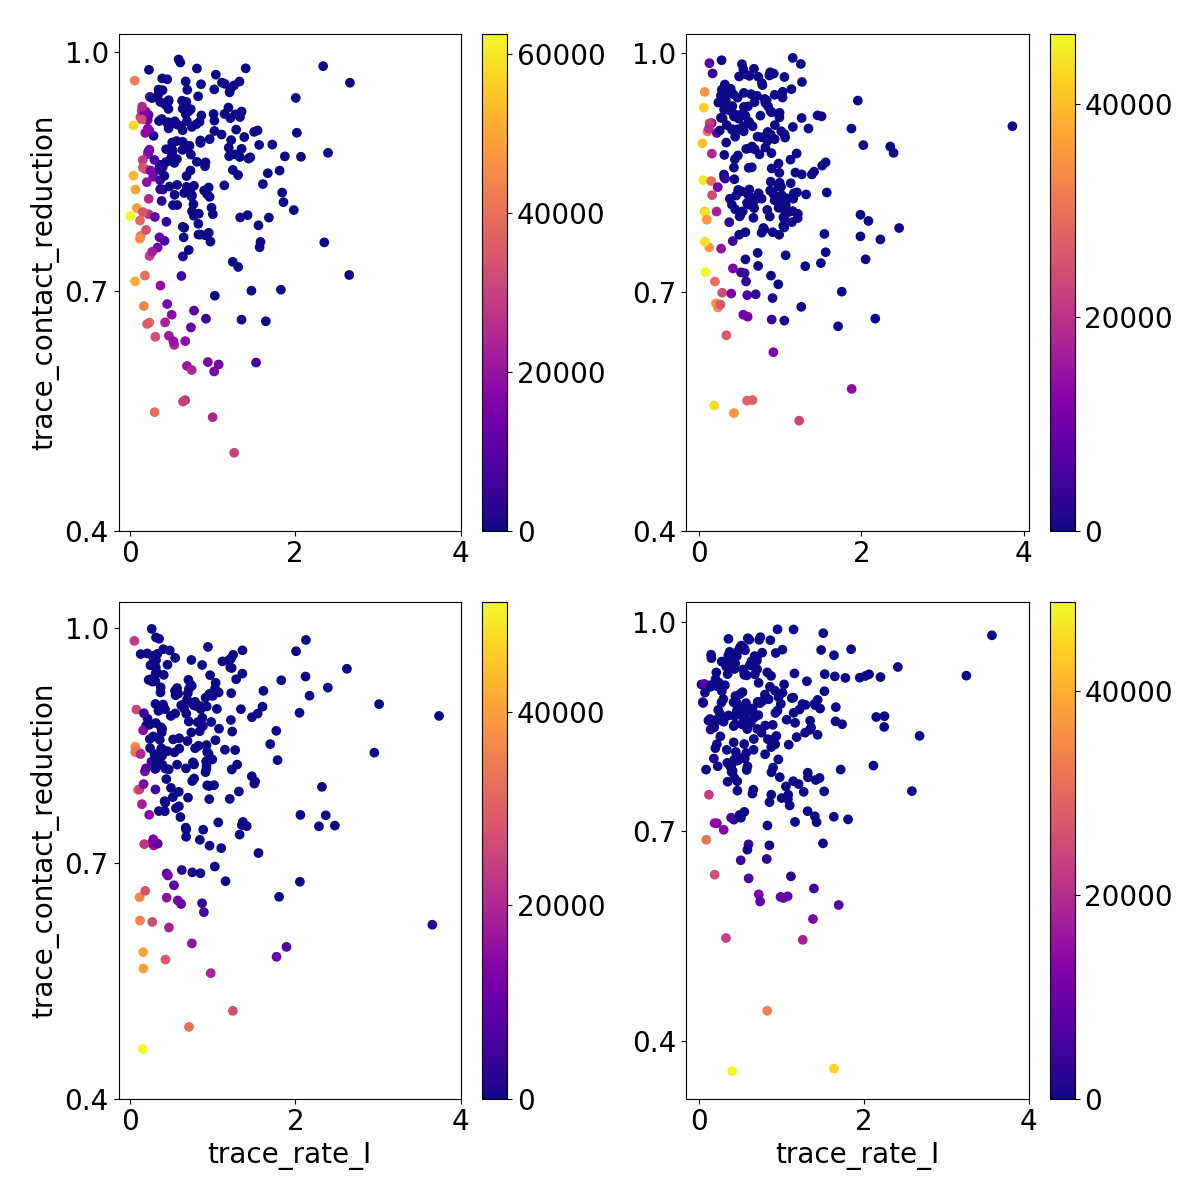
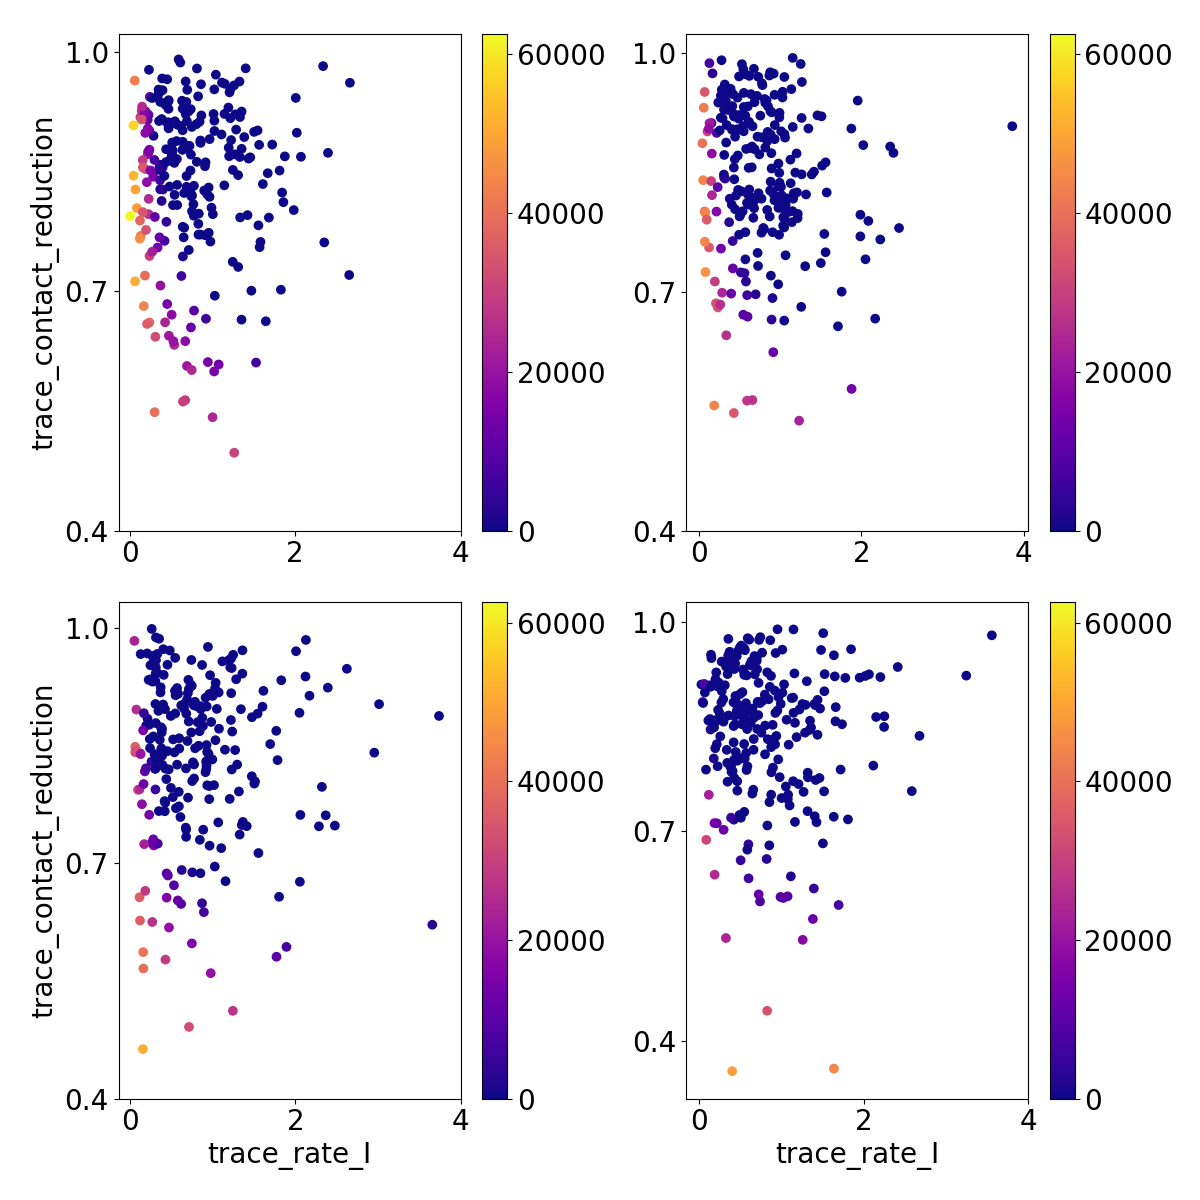
use np.min and np.max to set limits of colorbar

diff --git a/EasyVVUQ/heatmap_CT.py b/EasyVVUQ/heatmap_CT.py
@@ -118,7 +118,7 @@ for i in range(n_runs):
 f = plt.figure('heatmap_IC_prev',figsize=[12,12])
 ax_0 = f.add_subplot(221, ylabel='trace_contact_reduction')
 im_0 = ax_0.scatter(x=trace_rate_I_q[:,0], y=trace_contact_reduction_q[:,0], c=IC_prev_avg_max_q[:,0], cmap='plasma', \
-    vmin=min(IC_prev_avg_max_q), vmax=max(IC_prev_avg_max_q))
+    vmin=np.min(IC_prev_avg_max_q), vmax=np.max(IC_prev_avg_max_q))
 cbar_0 = f.colorbar(im_0, ax=ax_0)
 cbar_0.set_ticks([100, 400, 700, 1000])
 cbar_0.set_ticklabels(['100', '400', '700', '1000'])
@@ -127,7 +127,7 @@ ax_0.set_yticks([0.4, 0.7, 1])
 
 ax_1 = f.add_subplot(222)
 im_1 = ax_1.scatter(x=trace_rate_I_q[:,1], y=trace_contact_reduction_q[:,1], c=IC_prev_avg_max_q[:,1], cmap='plasma', \
-    vmin=min(IC_prev_avg_max_q), vmax=max(IC_prev_avg_max_q))
+    vmin=np.min(IC_prev_avg_max_q), vmax=np.max(IC_prev_avg_max_q))
 cbar_1 = f.colorbar(im_1, ax=ax_1)
 cbar_1.set_ticks([100, 400, 700, 1000])
 cbar_1.set_ticklabels(['100', '400', '700', '1000'])
@@ -136,7 +136,7 @@ ax_1.set_yticks([0.4, 0.7, 1])
 
 ax_2 = f.add_subplot(223, xlabel='trace_rate_I', ylabel='trace_contact_reduction')
 im_2 = ax_2.scatter(x=trace_rate_I_q[:,2], y=trace_contact_reduction_q[:,2], c=IC_prev_avg_max_q[:,2], cmap='plasma', \
-    vmin=min(IC_prev_avg_max_q), vmax=max(IC_prev_avg_max_q))
+    vmin=np.min(IC_prev_avg_max_q), vmax=np.max(IC_prev_avg_max_q))
 cbar_2 = f.colorbar(im_2, ax=ax_2)
 cbar_2.set_ticks([100, 400, 700, 1000])
 cbar_2.set_ticklabels(['100', '400', '700', '1000'])
@@ -145,7 +145,7 @@ ax_2.set_yticks([0.4, 0.7, 1])
 
 ax_3 = f.add_subplot(224, xlabel='trace_rate_I')
 im_3 = ax_3.scatter(x=trace_rate_I_q[:,3], y=trace_contact_reduction_q[:,3], c=IC_prev_avg_max_q[:,3], cmap='plasma', \
-    vmin=min(IC_prev_avg_max_q), vmax=max(IC_prev_avg_max_q))
+    vmin=np.min(IC_prev_avg_max_q), vmax=np.max(IC_prev_avg_max_q))
 cbar_3 = f.colorbar(im_3, ax=ax_3)
 cbar_3.set_ticks([100, 400, 700, 1000])
 cbar_3.set_ticklabels(['100', '400', '700', '1000'])
@@ -161,7 +161,7 @@ f.savefig('figures/heatmap_CT_IC_prev.png')
 f = plt.figure('heatmap_IC_ex',figsize=[12,12])
 ax_0 = f.add_subplot(221, ylabel='trace_contact_reduction')
 im_0 = ax_0.scatter(x=trace_rate_I_q[:,0], y=trace_contact_reduction_q[:,0], c=IC_ex_max_q[:,0], cmap='plasma', \
-    vmin=min(IC_ex_max_q), vmax=max(IC_ex_max_q))
+    vmin=np.min(IC_ex_max_q), vmax=np.max(IC_ex_max_q))
 cbar_0 = f.colorbar(im_0, ax=ax_0)
 cbar_0.set_ticks([0, 2e4, 4e4, 6e4])
 cbar_0.set_ticklabels(['0', '20000', '40000', '60000'])
@@ -170,7 +170,7 @@ ax_0.set_yticks([0.4, 0.7, 1])
 
 ax_1 = f.add_subplot(222)
 im_1 = ax_1.scatter(x=trace_rate_I_q[:,1], y=trace_contact_reduction_q[:,1], c=IC_ex_max_q[:,1], cmap='plasma', \
-    vmin=min(IC_ex_max_q), vmax=max(IC_ex_max_q))
+    vmin=np.min(IC_ex_max_q), vmax=np.max(IC_ex_max_q))
 cbar_1 = f.colorbar(im_1, ax=ax_1)
 cbar_1.set_ticks([0, 2e4, 4e4, 6e4])
 cbar_1.set_ticklabels(['0', '20000', '40000', '60000'])
@@ -179,7 +179,7 @@ ax_1.set_yticks([0.4, 0.7, 1])
 
 ax_2 = f.add_subplot(223, xlabel='trace_rate_I', ylabel='trace_contact_reduction')
 im_2 = ax_2.scatter(x=trace_rate_I_q[:,2], y=trace_contact_reduction_q[:,2], c=IC_ex_max_q[:,2], cmap='plasma', \
-    vmin=min(IC_ex_max_q), vmax=max(IC_ex_max_q))
+    vmin=np.min(IC_ex_max_q), vmax=np.max(IC_ex_max_q))
 cbar_2 = f.colorbar(im_2, ax=ax_2)
 cbar_2.set_ticks([0, 2e4, 4e4, 6e4])
 cbar_2.set_ticklabels(['0', '20000', '40000', '60000'])
@@ -188,7 +188,7 @@ ax_2.set_yticks([0.4, 0.7, 1])
 
 ax_3 = f.add_subplot(224, xlabel='trace_rate_I')
 im_3 = ax_3.scatter(x=trace_rate_I_q[:,3], y=trace_contact_reduction_q[:,3], c=IC_ex_max_q[:,3], cmap='plasma', \
-    vmin=min(IC_ex_max_q), vmax=max(IC_ex_max_q))
+    vmin=np.min(IC_ex_max_q), vmax=np.max(IC_ex_max_q))
 cbar_3 = f.colorbar(im_3, ax=ax_3)
 cbar_3.set_ticks([0, 2e4, 4e4, 6e4])
 cbar_3.set_ticklabels(['0', '20000', '40000', '60000'])
